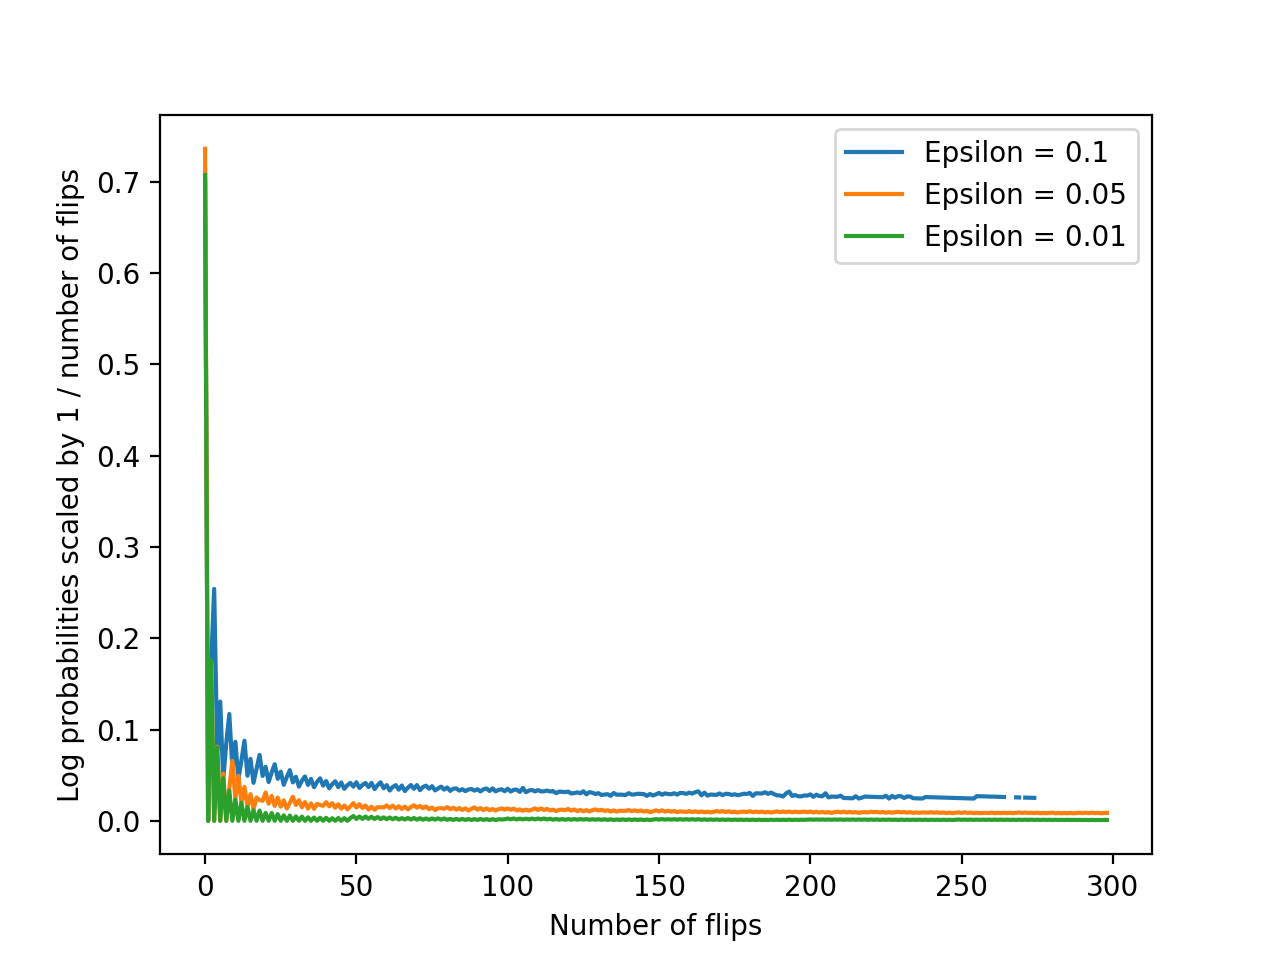
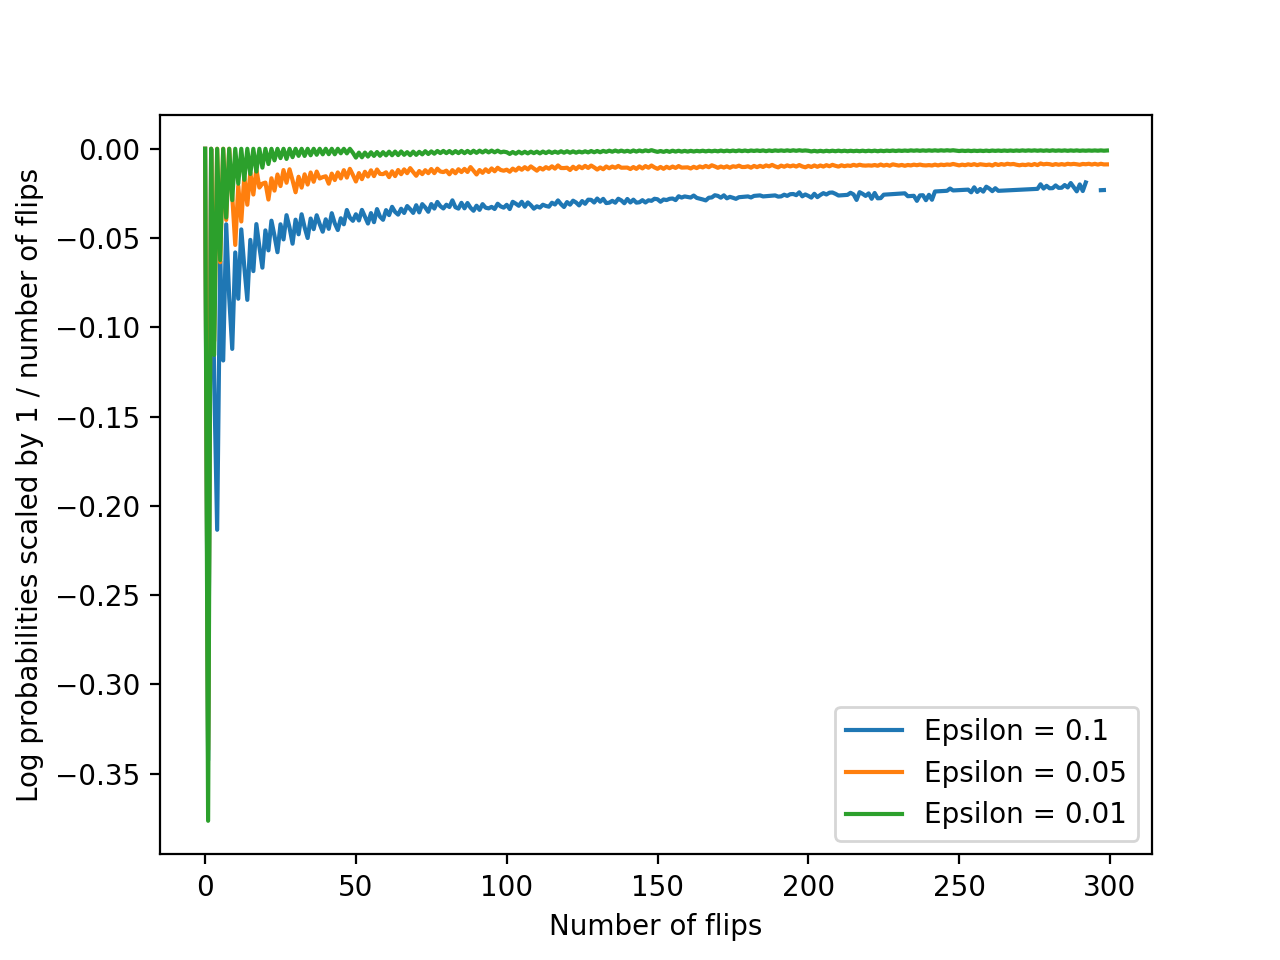
fixup

diff --git a/stochastic_analysis/homework_1/concentration_inequality.py b/stochastic_analysis/homework_1/concentration_inequality.py
@@ -5,6 +5,7 @@ import numpy as np
 def flip_coin():
     return np.random.randint(0, 2)
 
+
 def get_log_probs(epsilon):
     num_flips = 300
     mu = 0.5
@@ -21,18 +22,19 @@ def get_log_probs(epsilon):
             if np.abs(average - mu) > epsilon:
                 deviations[i] += 1.
     probabilities = deviations / sim_runs
-    log_probs = [-1 / i * np.log(probabilities[i]) for i in range(1, num_flips)]
+    log_probs = [(1 / i) * np.log(probability) for i, probability in enumerate(probabilities, start=1)]
     return log_probs
+
 
 def main():
     plt.xlabel('Number of flips')
     plt.ylabel('Log probabilities scaled by 1 / number of flips')
-    log_probs = get_log_probs(0.1)
-    plt.plot(log_probs, label='Epsilon = 0.1')
-    log_probs1 = get_log_probs(0.05)
-    plt.plot(log_probs1, label='Epsilon = 0.05')
-    log_probs2 = get_log_probs(0.01)
-    plt.plot(log_probs2, label='Epsilon = 0.01')
+    log_probs_1 = get_log_probs(0.1)
+    plt.plot(log_probs_1, label='Epsilon = 0.1')
+    log_probs_2 = get_log_probs(0.05)
+    plt.plot(log_probs_2, label='Epsilon = 0.05')
+    log_probs_3 = get_log_probs(0.01)
+    plt.plot(log_probs_3, label='Epsilon = 0.01')
     plt.legend()
     plt.show()
 
